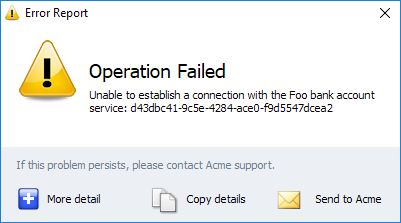
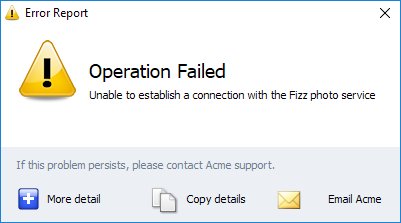
fix images, fix demo to show send button and dispose bitmap used in tests

Changed region(s): [[0.2095, 0.4036, 0.9576, 0.5112], [0.7781, 0.861, 0.8978, 0.9148]]

diff --git a/src/Demos/WinForms/DemoAppView.cs b/src/Demos/WinForms/DemoAppView.cs
@@ -12,7 +12,7 @@ namespace Demo.WinForms
 			InitializeComponent();
 
 			urlDefault.Click += Show_Default_Report;
-			urlHideDetail.Click += Show_HideDetailView_Click;
+			urlHideDetail.Click += Show_MoreLessDetailsView_Click;
 			urlSendEmail.Click += Send_Report;
 			urlSilentReport.Click += Send_Silent_Report;
 		}
@@ -22,7 +22,7 @@ namespace Demo.WinForms
 			ThrowAndShowExceptionReporter();
 		}
 
-		static void Show_HideDetailView_Click(object sender, EventArgs e)
+		static void Show_MoreLessDetailsView_Click(object sender, EventArgs e)
 		{
 			ThrowAndShowExceptionReporter(detailView:true);
 		}
@@ -56,6 +56,7 @@ namespace Demo.WinForms
 			}
 			catch (Exception exception)
 			{
+				// testing attaching files
 				var file1 = Path.GetTempFileName() + "-file1.txt";	
 				var file2 = Path.GetTempFileName() + "-file2.txt";
 
@@ -115,17 +116,18 @@ namespace Demo.WinForms
 			}
 			catch (Exception exception)
 			{
-				var exceptionReporter = new ExceptionReporter();
+				var er = new ExceptionReporter();
+				er.Config.SendMethod = ReportSendMethod.SimpleMAPI;
+				er.Config.EmailReportAddress = "support@acme.com";
+				er.Config.CompanyName = "Acme";   // this goes alongside email button text
 
 				if (detailView)
 				{
-					exceptionReporter.Config.CompanyName = "Acme";   // this goes alongside email button text
-//					exceptionReporter.Config.SendMethod = ReportSendMethod.WebService;		// this was just for testing text "Send to" or "Email"
-					exceptionReporter.Config.ShowFullDetail = false;
-					exceptionReporter.Config.ShowLessMoreDetailButton = true;
+					er.Config.ShowFullDetail = false;
+					er.Config.ShowLessMoreDetailButton = true;
 //					exceptionReporter.Config.ShowEmailButton = false;		// just for testing that removing email button works well positioning etc
 				}
-				exceptionReporter.Show(exception);
+				er.Show(exception);
 			}
 		}
 
@@ -142,9 +144,9 @@ namespace Demo.WinForms
 		static void AndAnotherOne()
 		{
 			var exception = new IOException(
-				"Unable to establish a connection with the Foo bank account service: " + Guid.NewGuid().ToString(),
+				"Unable to establish a connection with the Fizz photo service",
 				new Exception(
-					"This is an Inner Exception message - with a message that is not too small but perhaps it should be smaller"));
+					"This is an Inner Exception message - with a message that is not too small"));
 			throw exception;
 		}
 

diff --git a/src/Test.ExceptionReporter/Attacher_Tests.cs b/src/Test.ExceptionReporter/Attacher_Tests.cs
@@ -156,17 +156,21 @@ namespace ExceptionReporting.Tests
 		public void Should_Not_Take_Screenshot_If_Already_Taken()
 		{
 			var screenshot = new Mock<IScreenshotTaker>();
-			var attacher =
-				new Attacher(new ExceptionReportInfo
-				{
-					TakeScreenshot = true,
-					ScreenshotImage = new Bitmap(1, 1)    // this makes the screenshot "already taken" ie exists
-				})
-				{
-					ScreenshotTaker = screenshot.Object,
-				};
 
-			attacher.AttachFiles(_iattach.Object);
+			using (var bm = new Bitmap(1, 1))
+			{
+				var attacher =
+					new Attacher(new ExceptionReportInfo
+					{
+						TakeScreenshot = true,
+						ScreenshotImage = bm		// this makes the screenshot "already taken" ie exists
+					})
+					{
+						ScreenshotTaker = screenshot.Object,
+					};
+
+				attacher.AttachFiles(_iattach.Object);
+			}
 
 			screenshot.Verify(s => s.TakeScreenShot(), Times.Never);
 		}

diff --git a/src/ExceptionReporter/ExceptionReportInfo.cs b/src/ExceptionReporter/ExceptionReportInfo.cs
@@ -330,7 +330,9 @@ namespace ExceptionReporting
 		///<summary>No sending of reports (default) </summary>
 		None,
 
-		///<summary>Tries to use the Windows default Email client eg Outlook</summary>
+		///<summary>Tries to use the Windows default Email client eg Outlook
+		/// <remarks>requires <see cref="ExceptionReportInfo.EmailReportAddress"/> to be set to a valid email</remarks>
+		/// </summary>
 		SimpleMAPI,
 
 		///<summary>Sends Email via an SMTP server - requires other config (host/port etc) properties starting with 'Smtp'</summary>
